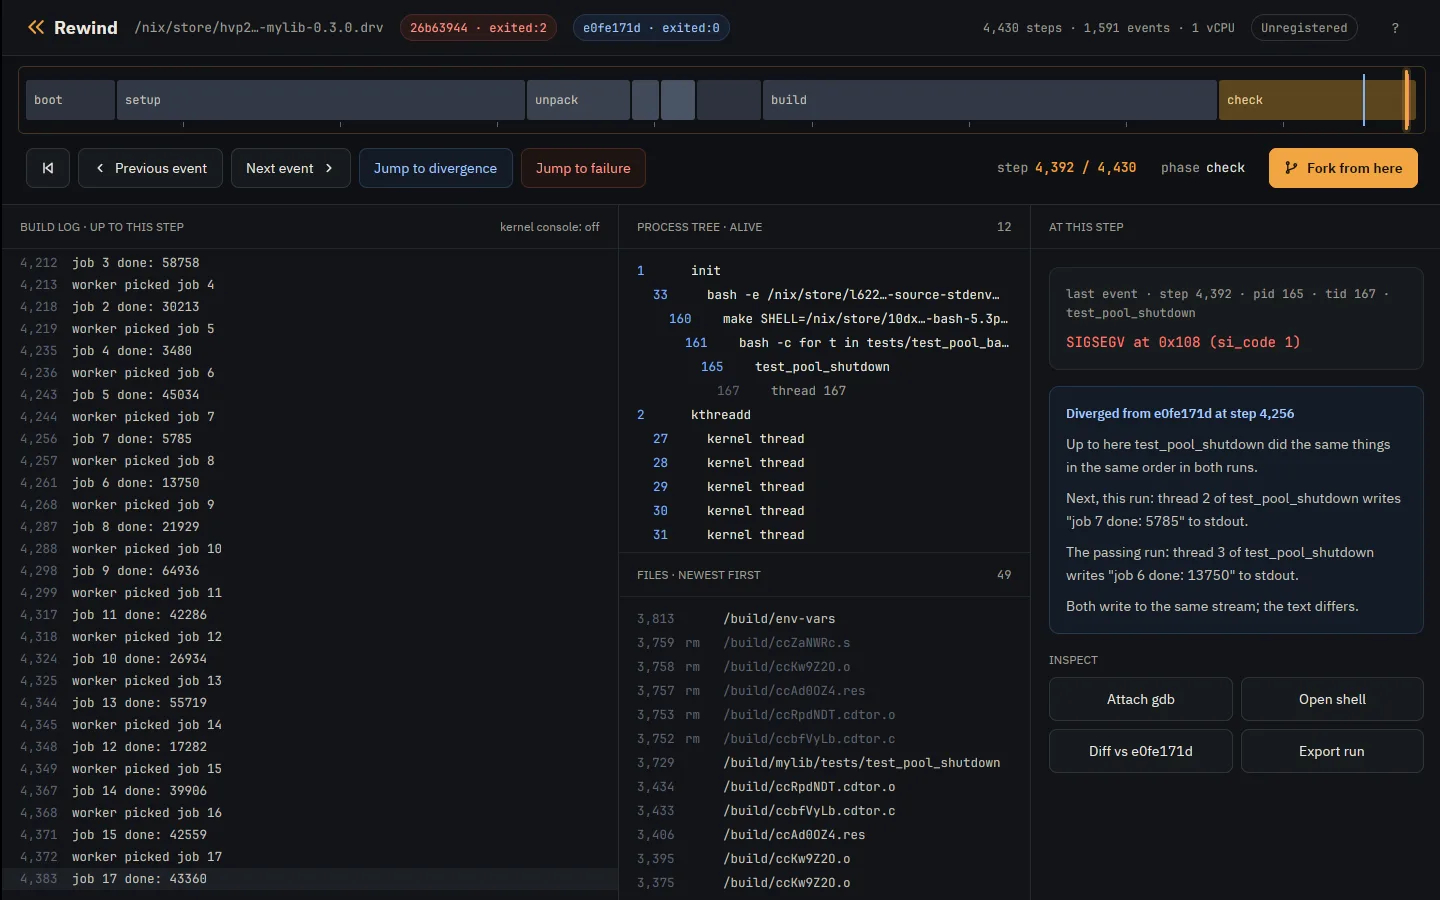
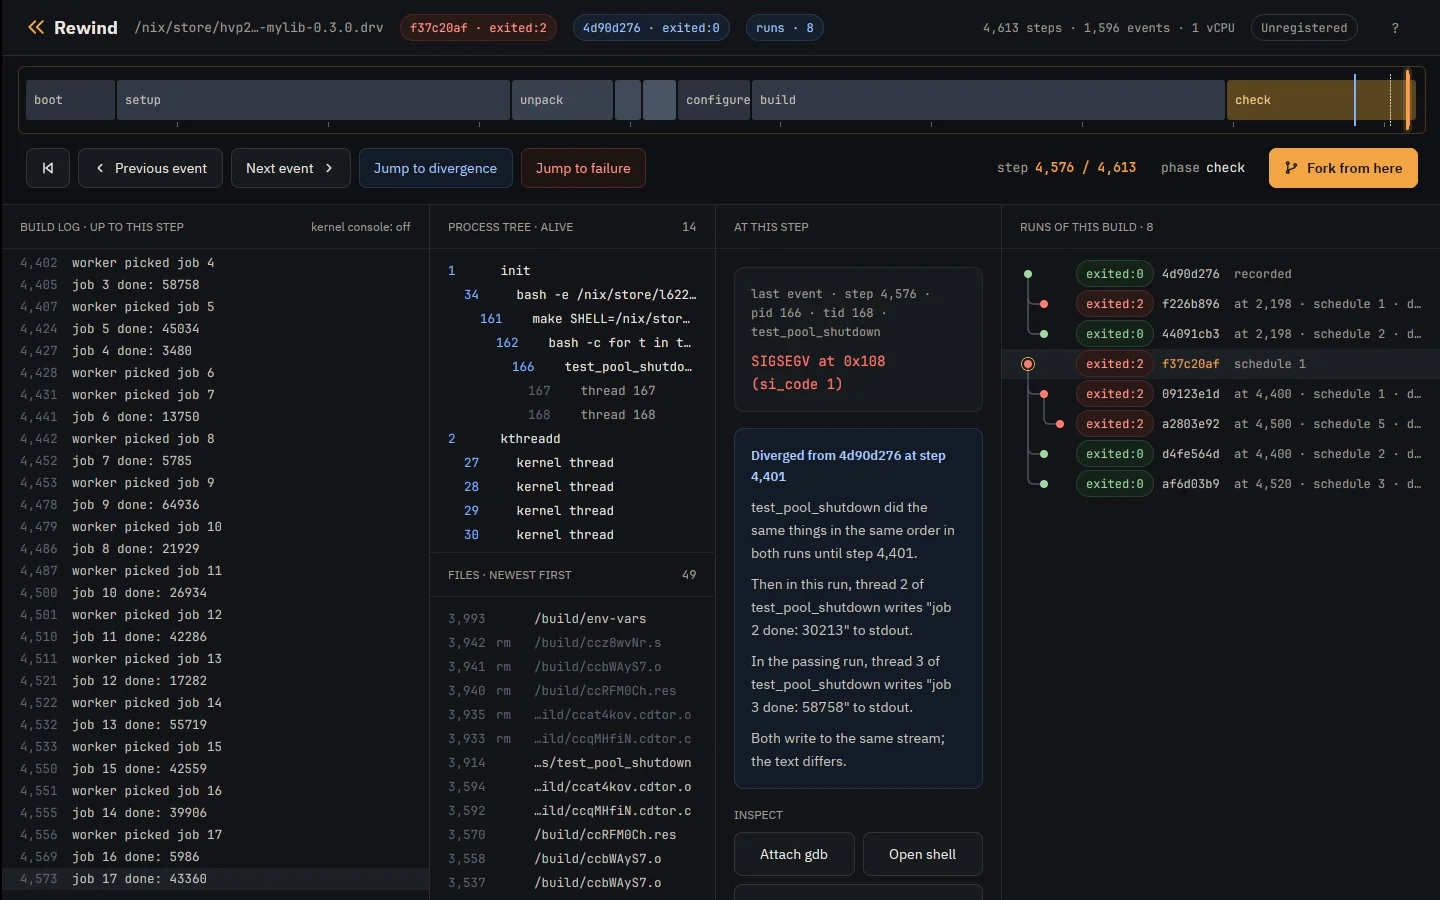
Show the Runs panel on the site and in the README
The site's app screenshot predated the Runs panel. It is retaken on a
failing mylib run compared with a passing one, with the panel open on
the build's eight runs, and a sixth pin and card explain the panel; the
other pins move to where their parts now are. The README describes run
families and the panel, with a crop of it.

Claude-Session: https://claude.ai/code/session_01JHGPYecv1PHANiG4SNwbAJ

diff --git a/site/index.html b/site/index.html
@@ -257,7 +257,7 @@
                     width="1440"
                     height="900"
                     loading="lazy"
-                    alt="The Rewind desktop app on a failing mylib run: the timeline with the playhead in the check phase, the build log, the process tree, files written, and the SIGSEGV at 0x108 above where the run parted from a passing run of the same build. Opens the full-size image."
+                    alt="The Rewind desktop app on a failing mylib run: the timeline with the playhead in the check phase, the build log, the process tree, files written, the SIGSEGV at 0x108 above where the run parted from a passing run of the same build, and the Runs panel with the build's eight runs drawn as a tree of forks, red for failed and green for passed. Opens the full-size image."
                   />
                 </picture>
               </a>
@@ -287,6 +287,13 @@
               </button>
               <button type="button" class="pin pin-5" aria-label="5: the Fork from here button">
                 5
+              </button>
+              <button
+                type="button"
+                class="pin pin-6"
+                aria-label="6: the Runs panel, every run of the build as a tree of forks"
+              >
+                6
               </button>
             </div>
             <figcaption>The real app, on a real failing run.</figcaption>
@@ -321,6 +328,15 @@
               <p>
                 Branch at the playhead under a new schedule, reschedule requests plus up to 50
                 &micro;s of timer slack, so the threads interleave differently from there on.
+              </p>
+            </li>
+            <li class="tour-card" id="tour-6" tabindex="0">
+              <h3>Every run of this build</h3>
+              <p>
+                The run as recorded, the schedules <code>rewind check</code> tried and every fork,
+                drawn as a tree: each fork branches off the run it came from, red for failed and
+                green for passed. Click one to open it beside its parent; right-click to compare,
+                copy or remove it with its forks.
               </p>
             </li>
           </ol>

diff --git a/site/style.css b/site/style.css
@@ -1078,23 +1078,28 @@ a:focus-visible {
 }
 /* The build log, in the space right of the log lines. */
 .pin-2 {
-  left: 29.9%;
+  left: 25.4%;
   top: 55.6%;
 }
 /* On the line between the process tree and the files; the card covers both. */
 .pin-3 {
-  left: 64.6%;
-  top: 61.3%;
+  left: 45.5%;
+  top: 61.4%;
 }
 /* The "At this step" panel, between the SIGSEGV and the divergence card. */
 .pin-4 {
-  left: 95.5%;
-  top: 42%;
+  left: 67.2%;
+  top: 46.7%;
 }
 /* The "Fork from here" button, just under it so the label stays readable. */
 .pin-5 {
   left: 93.3%;
   top: 23%;
+}
+/* The Runs panel, in the space under the tree of runs. */
+.pin-6 {
+  left: 84%;
+  top: 62%;
 }
 
 .tour-cards {
@@ -1173,6 +1178,7 @@ a:focus-visible {
 .tour:has(#tour-3:is(:hover, :focus-visible)) .pin-3,
 .tour:has(#tour-4:is(:hover, :focus-visible)) .pin-4,
 .tour:has(#tour-5:is(:hover, :focus-visible)) .pin-5,
+.tour:has(#tour-6:is(:hover, :focus-visible)) .pin-6,
 .pin:hover,
 .pin:focus {
   transform: scale(1.25);
@@ -1185,6 +1191,7 @@ a:focus-visible {
 .tour:has(.pin-3:is(:hover, :focus)) #tour-3,
 .tour:has(.pin-4:is(:hover, :focus)) #tour-4,
 .tour:has(.pin-5:is(:hover, :focus)) #tour-5,
+.tour:has(.pin-6:is(:hover, :focus)) #tour-6,
 .tour-card:hover,
 .tour-card:focus-visible {
   border-color: var(--amber);

diff --git a/README.md b/README.md
@@ -22,7 +22,7 @@
 </p>
 
 <p align="center">
-  <img src="site/img/app-failure.png" alt="The Rewind desktop app on a failing Nix build: the timeline of build phases, the build log up to the playhead, the processes alive at that step, the SIGSEGV that ended the test, and a card saying where this run parted from a passing run of the same build." />
+  <img src="site/img/app-failure.png" alt="The Rewind desktop app on a failing Nix build: the timeline of build phases, the build log up to the playhead, the processes alive at that step, the SIGSEGV that ended the test, a card saying where this run parted from a passing run of the same build, and the Runs panel with the build's runs drawn as a tree of forks." />
 </p>
 
 Rewind VM runs a Nix build, a test suite or any Linux command inside a KVM
@@ -164,6 +164,19 @@ playhead. Fork from here branches the run under a new schedule.
 Open shell starts a shell inside the VM at the playhead, in the build's
 directory with its environment, and Attach gdb opens gdb on the same fork,
 both in a terminal pane below the scrubber.
+
+Every run of a build is one family: the run as recorded, the schedules
+`rewind check` tried, and every fork. The start screen lists one line per
+family however many forks it has, and the runs pill in the header opens the
+Runs panel, which draws the family as a tree the way ISL and Jujutsu draw a
+history: each fork branches off the run it came from, red for failed and green
+for passed, with the step it forked at, its schedule and where it first
+differs. Click a run to open it beside its parent; right-click it to compare it
+with the run on screen, copy its id, or remove it with its forks.
+
+<p align="center">
+  <img src="docs/img/app-runs.png" alt="The Runs panel: eight runs of the mylib build as a tree, the passing run and two forks of it at step 2,198, the failing run with forks at steps 4,400 and 4,520 and a fork of a fork at 4,500, each with its exit status, schedule and where it first differs." />
+</p>
 
 <p align="center">
   <img src="docs/img/app-shell.png" alt="The Rewind desktop app at the step a test segfaulted, with a terminal pane below the scrubber running a shell inside the VM: ls, type gcc and head work in /build/mylib." />
